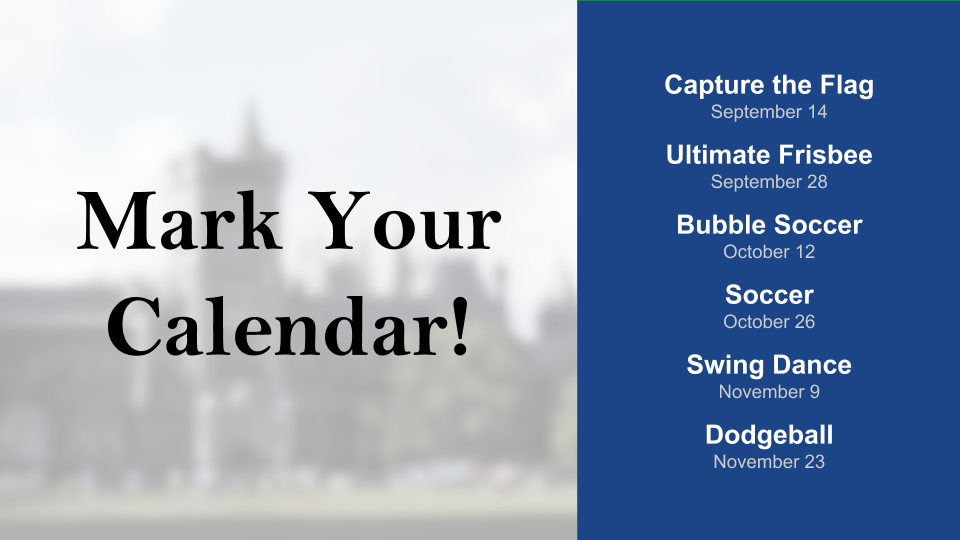
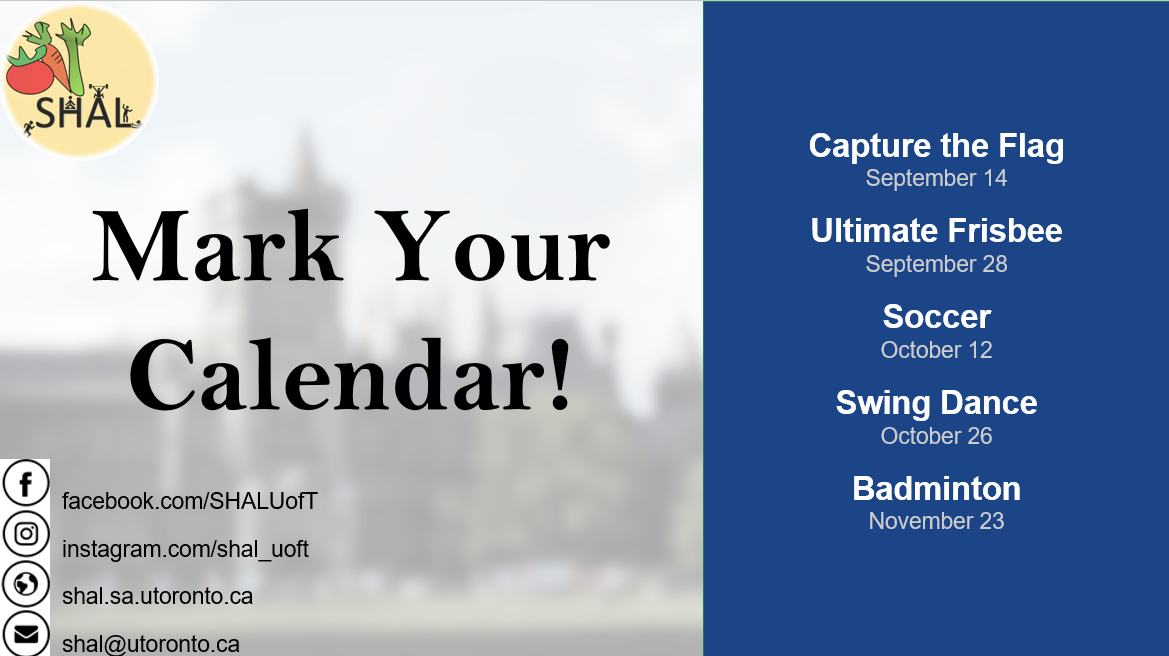
Updated events.

diff --git a/events.html b/events.html
@@ -93,6 +93,97 @@
                             <div class="card-header" id="green">
                                 <h4 class="header"><i class="fa fa-futbol"></i>Physical Activity</h4>
                             </div>
+                            <img class="landscape-poster" src="events/swing-dance.jpg">
+                            <div class="card-body">
+                                <p class="details">
+                                    Date: Friday October 26th, 2018
+                                    <br>
+                                    Time: 7 PM - 9 PM
+                                    <br>
+                                    Location: University of Toronto, Hart House Activities Room
+                                    <br><br>
+                                </p>
+                                <div class="center-content">
+                                    <button type="button" class="btn btn-info" id="learn-more-button" data-toggle="modal" data-target="#modal6">Learn More</button>
+                                    <a href="https://www.facebook.com/events/1162129173935079/" target="_blank">
+                                       <button type="button" class="btn" id="facebook-button">Facebook Event</button>
+                                    </a>
+                                </div>
+
+                                <!-- Modal -->
+                                <div class="modal fade" id="modal6" tabindex="-1" role="dialog">
+                                    <div class="modal-dialog modal-lg" role="document">
+                                        <div class="modal-content">
+                                            <div class="modal-header" id="modal-header">
+                                                <button type="button" class="close" data-dismiss="modal" aria-label="Close">
+                                                    <span aria-hidden="true">&times;</span>
+                                                </button>
+                                            </div>
+                                            <div class="modal-body">
+                                                <div class="container">
+
+                                                    <div class="row">
+                                                        <div class="col-lg-5">
+                                                            <img class="enlarged-poster" src="events/swing-dance.jpg">
+                                                        </div>
+                                                        <div class="col-lg-7">
+                                                            <h3 class="event-name">U of T SHAL Swing Dance!</h3>
+                                                            <h5 class="info">
+                                                                Date: Friday October 26th, 2018
+                                                                <br>
+                                                                Time: 7 PM - 9 PM
+                                                                <br>
+                                                                Location: University of Toronto, Hart House Activities Room
+                                                                <br>
+                                                            </h5>
+                                                            <hr class="divider">
+                                                            <div class="paragraph">
+                                                                In collaboration with <a href="https://www.facebook.com/utswing/" target="_blank">UT-Swing</a>, we present to you SHAL's Inaugural Swing Dance Event!
+                                                                <br><br>
+                                                                Who is invited? a) All U of T Students, b) Anyone sponsored by a Hart House member (guest fee required).
+                                                                <br><br>
+                                                                IMPORTANT: What to bring?<br>
+                                                                a) U of T Students: A valid T-Card, a lock to place your belongings in a Hart House gym locker, and proper gymwear (non-marking footwear).<br>
+                                                                b) Non-Members: Guest Fee: $16 + HST, a lock to place your belongings in a Hart House gym locker, and proper gymwear (non-marking footwear). For details, please visit <a href="http://www.harthouse.ca/fitness/hours-of-operation/" target="_blank">this site</a> under subheading "Guest Privileges".<br>
+                                                            </div>
+                                                            <br>
+                                                        </div>
+
+                                                    </div>
+                                                    
+                                                    <div class="row">
+                                                        <div class="col-lg-12">
+                                                            <div class="paragraph">
+                                                                <b>*** RULES ***</b>
+                                                                <ul>
+                                                                    <li>All participants MUST be in proper gym wear, including non-marking footwear.</li>
+                                                                    <li>Spectators are NOT permitted at any time – only those participating in the event will be permitted to enter the Fitness Centre.</li>
+                                                                    <li>All coats and bags are to be checked into day lockers and NOT taken to the Activities Room (locks are not provided).</li>
+                                                                    <li>Food and beverages are NOT permitted in the Fitness Centre</li>
+                                                                    <li>Permission to take pictures has been obtained in advance.</li>
+                                                                </ul>
+                                                            </div>
+                                                        </div>
+                                                    </div>
+
+                                                </div>
+                                            </div>
+                                            <div class="modal-footer">
+                                                <button type="button" class="btn btn-info" id="event-button" class="btn btn-info" data-dismiss="modal">Close</button>
+                                            </div>
+                                        </div>
+                                    </div>
+                                </div>
+
+                            </div>
+                        </div>
+                    </div>
+
+                    <div class="col-md">
+                        <div class="card" id="silver">
+                            <div class="card-header" id="green">
+                                <h4 class="header"><i class="fa fa-futbol"></i>Physical Activity</h4>
+                            </div>
                             <img class="landscape-poster" src="events/sports-events.png">
                             <div class="card-body">
                                 <p class="details">
@@ -100,11 +191,11 @@
                                     <br><br>
                                 </p>
                                 <div class="center-content">
-                                    <button type="button" class="btn btn-info" id="learn-more-button" data-toggle="modal" data-target="#modal6">Learn More</button>
+                                    <button type="button" class="btn btn-info" id="learn-more-button" data-toggle="modal" data-target="#modal100">Learn More</button>
                                 </div>
                                 
                                 <!-- Modal -->
-                                <div class="modal fade" id="modal6" tabindex="-1" role="dialog">
+                                <div class="modal fade" id="modal100" tabindex="-1" role="dialog">
                                     <div class="modal-dialog modal-lg" role="document">
                                         <div class="modal-content">
                                             <div class="modal-header" id="modal-header">
@@ -165,12 +256,12 @@
                                     <br><br>
                                 </p>
                                 <div class="center-content">
-                                    <button type="button" class="btn btn-info" id="learn-more-button" data-toggle="modal" data-target="#modal3">Learn More</button>
+                                    <button type="button" class="btn btn-info" id="learn-more-button" data-toggle="modal" data-target="#modal99">Learn More</button>
                                     <button type="button" class="btn" id="facebook-button" data-target="#">Facebook Event</button>
                                 </div>
                                 
                                 <!-- Modal -->
-                                <div class="modal fade" id="modal3" tabindex="-1" role="dialog">
+                                <div class="modal fade" id="modal99" tabindex="-1" role="dialog">
                                     <div class="modal-dialog modal-lg" role="document">
                                         <div class="modal-content">
                                             <div class="modal-header" id="modal-header">
@@ -212,9 +303,6 @@
                         <br><br>
                     </div>
                     
-                    <div class="col-md">
-                    </div>
-                    
                 </div>
             </div>
         </div>
@@ -245,14 +333,14 @@
                                             <br><br>
                                         </p>
                                         <div class="center-content">
-                                            <button type="button" class="btn btn-info" id="learn-more-button" data-toggle="modal" data-target="#modal7">Learn More</button>
+                                            <button type="button" class="btn btn-info" id="learn-more-button" data-toggle="modal" data-target="#modal5">Learn More</button>
                                             <a href="https://www.facebook.com/events/488673634983850/" target="_blank">
                                                 <button type="button" class="btn" id="facebook-button">Facebook Event</button>
                                             </a>
                                         </div>
 
                                         <!-- Modal -->
-                                        <div class="modal fade" id="modal7" tabindex="-1" role="dialog">
+                                        <div class="modal fade" id="modal5" tabindex="-1" role="dialog">
                                             <div class="modal-dialog modal-lg" role="document">
                                                 <div class="modal-content">
                                                     <div class="modal-header" id="modal-header">
@@ -268,14 +356,14 @@
                                                                     <img class="enlarged-poster" src="events/soccer-event.jpg">
                                                                 </div>
                                                                 <div class="col-lg-7">
-                                                                    <h3 class="event-name">U of T SHAL Soccer Game !</h3>
+                                                                    <h3 class="event-name">U of T SHAL Soccer Game!</h3>
                                                                     <h5 class="info">
                                                                         Date: Friday October 12th, 2018
                                                                         <br>
                                                                         Time: 5 PM - 6:30 PM
                                                                         <br>
                                                                         Location: University of Toronto, King's College Circle (Front Campus)
-                                                                        <br><br>
+                                                                        <br>
                                                                     </h5>
                                                                     <hr class="divider">
                                                                     <div class="paragraph">
@@ -322,14 +410,14 @@
                                             <br><br>
                                         </p>
                                         <div class="center-content">
-                                            <button type="button" class="btn btn-info" id="learn-more-button" data-toggle="modal" data-target="#modal5">Learn More</button>
+                                            <button type="button" class="btn btn-info" id="learn-more-button" data-toggle="modal" data-target="#modal4">Learn More</button>
                                             <a href="https://www.facebook.com/events/273831263254051/" target="_blank">
                                                <button type="button" class="btn" id="facebook-button">Facebook Event</button>
                                             </a>
                                         </div>
 
                                         <!-- Modal -->
-                                        <div class="modal fade" id="modal5" tabindex="-1" role="dialog">
+                                        <div class="modal fade" id="modal4" tabindex="-1" role="dialog">
                                             <div class="modal-dialog modal-lg" role="document">
                                                 <div class="modal-content">
                                                     <div class="modal-header" id="modal-header">
@@ -352,7 +440,7 @@
                                                                         Time: 4 PM - 6 PM
                                                                         <br>
                                                                         Location: University of Toronto, King's College Circle (Front Campus)
-                                                                        <br><br>
+                                                                        <br>
                                                                     </h5>
                                                                     <hr class="divider">
                                                                     <div class="paragraph">
@@ -401,14 +489,14 @@
                                             <br><br>
                                         </p>
                                         <div class="center-content">
-                                            <button type="button" class="btn btn-info" id="learn-more-button" data-toggle="modal" data-target="#modal4">Learn More</button>
+                                            <button type="button" class="btn btn-info" id="learn-more-button" data-toggle="modal" data-target="#modal3">Learn More</button>
                                             <a href="https://www.facebook.com/events/2177278719219047/" target="_blank">
                                                <button type="button" class="btn" id="facebook-button">Facebook Event</button>
                                             </a>
                                         </div>
 
                                         <!-- Modal -->
-                                        <div class="modal fade" id="modal4" tabindex="-1" role="dialog">
+                                        <div class="modal fade" id="modal3" tabindex="-1" role="dialog">
                                             <div class="modal-dialog modal-lg" role="document">
                                                 <div class="modal-content">
                                                     <div class="modal-header" id="modal-header">

diff --git a/index.html b/index.html
@@ -296,6 +296,21 @@
                                 <div class="row">
                                     <div class="col-sm-3">
                                         <p class="month">OCT</p>
+                                        <p class="date">20/18</p>
+                                        <br>
+                                    </div>
+                                    <div class="col-sm-9">
+                                        <p class="paragraph">
+                                            Date, time, and location for our "Swing Dance" activity have been announced! Please visit our events page for further information.
+                                        </p>
+                                    </div>
+                                </div>
+                                
+                                <hr class="content-divider">
+                                
+                                <div class="row">
+                                    <div class="col-sm-3">
+                                        <p class="month">OCT</p>
                                         <p class="date">10/18</p>
                                         <br>
                                     </div>
